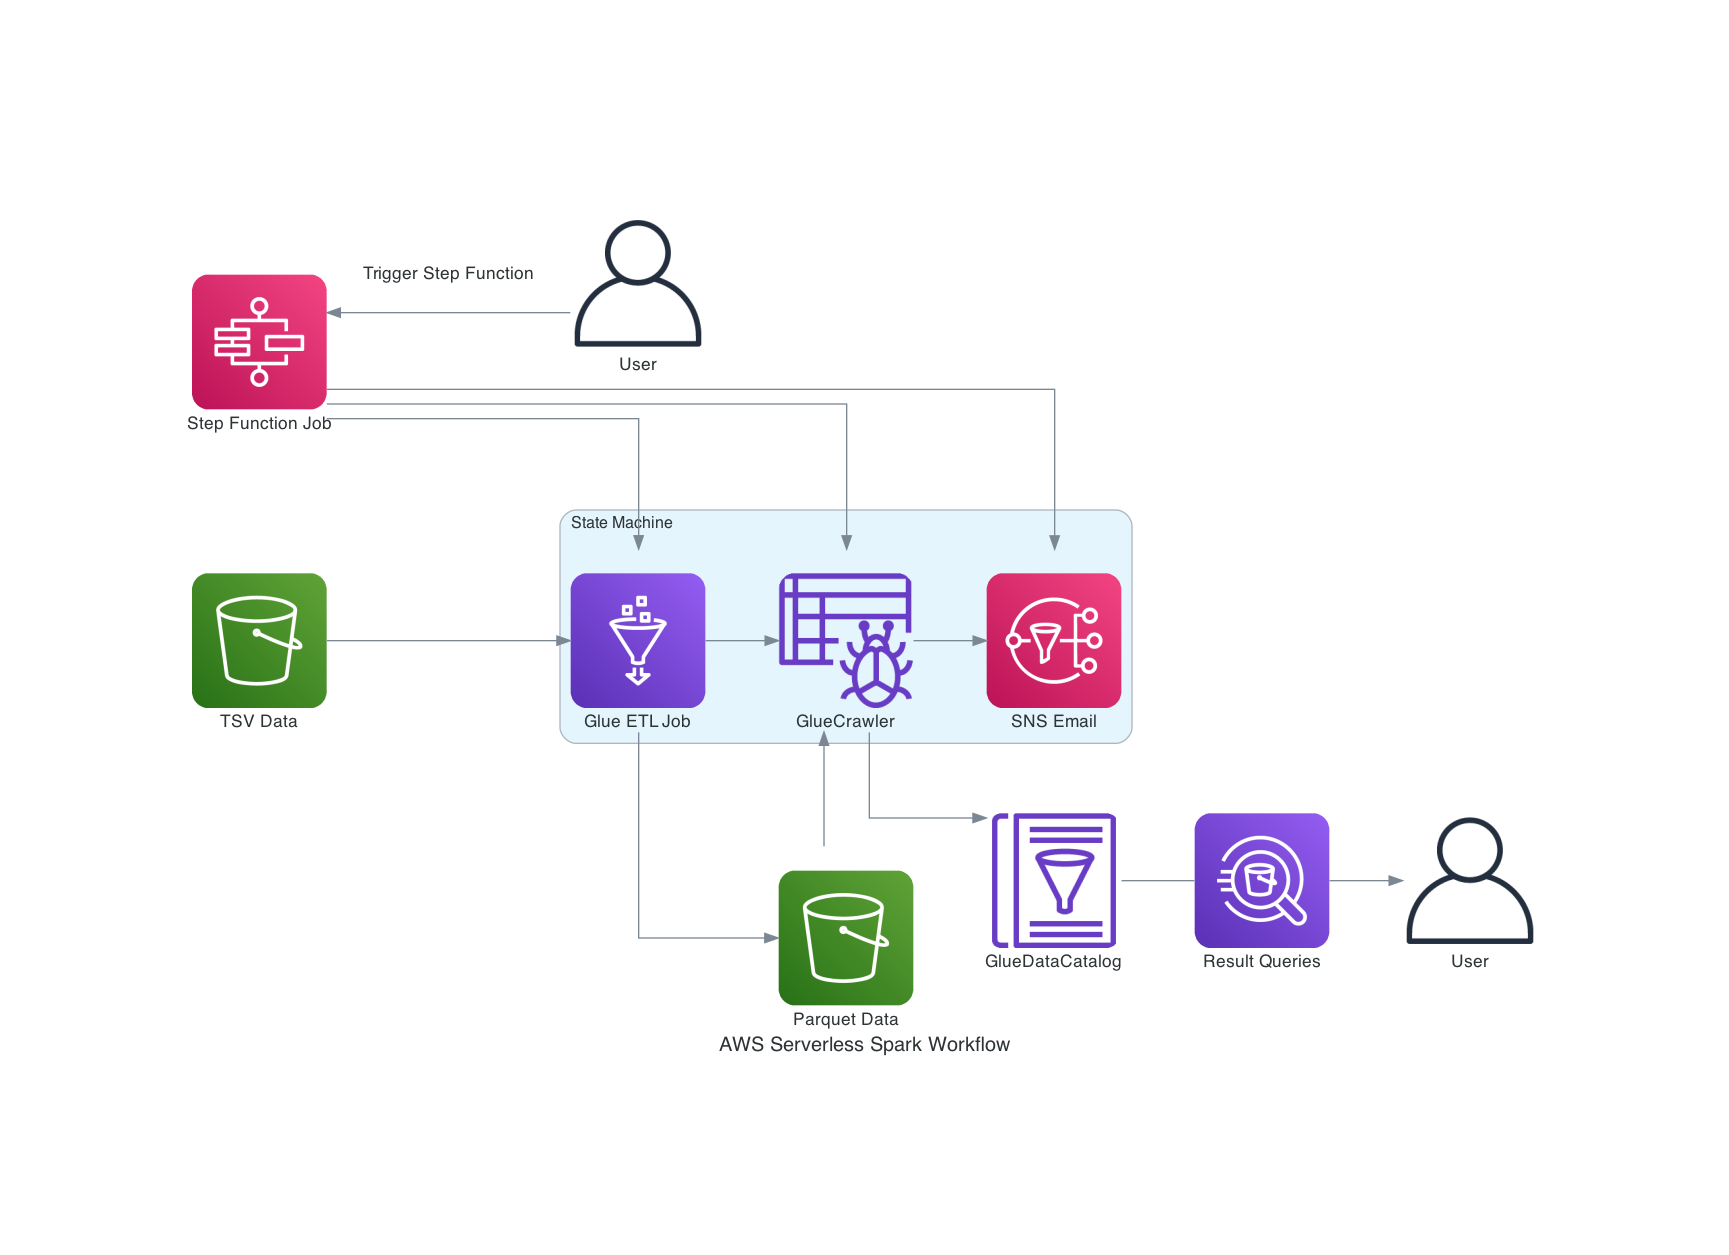
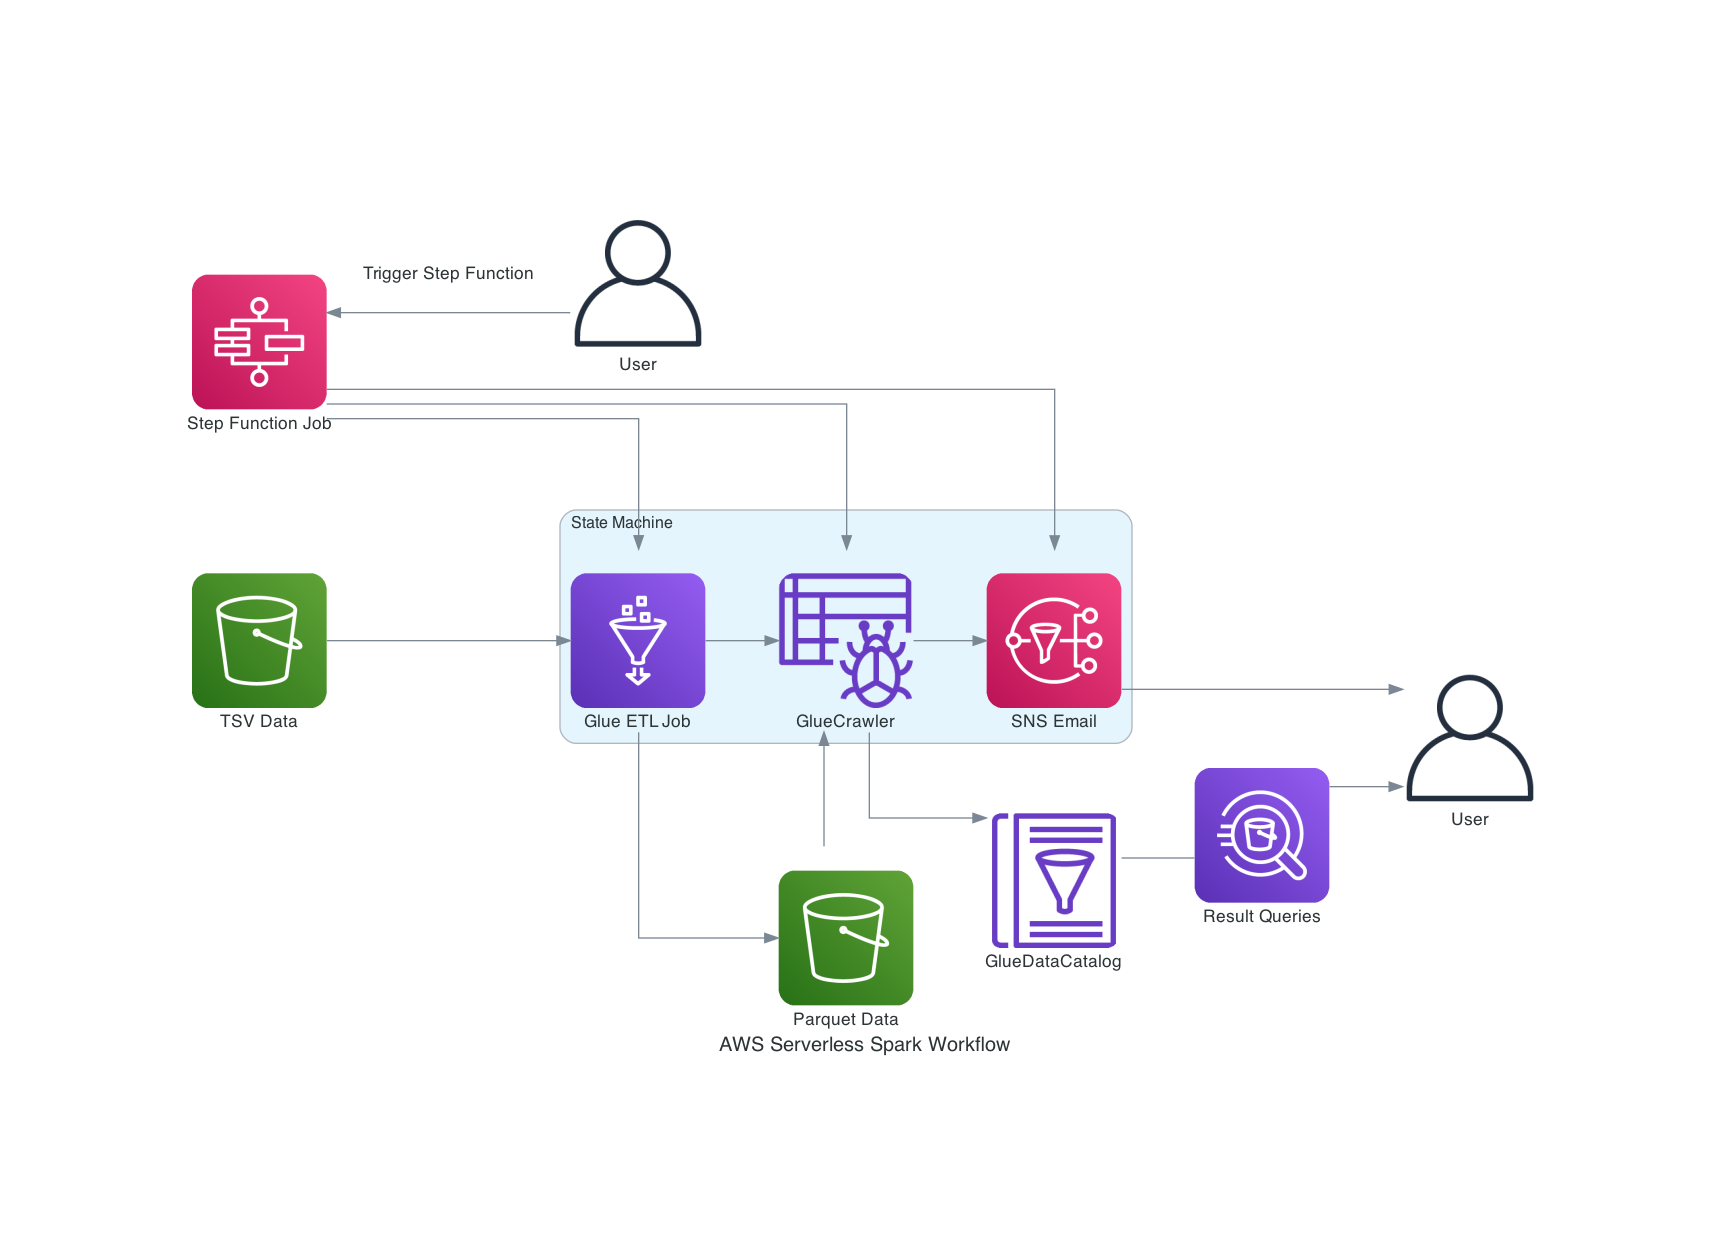
small fix architecture diagram

Changed region(s): [[0.6871, 0.5904, 0.7808, 0.7769], [0.812, 0.5283, 0.9057, 0.7769], [0.8745, 0.7147, 0.9057, 0.7458]]

diff --git a/src/task3/aws/architecture,py.py b/src/task3/aws/architecture,py.py
@@ -21,6 +21,6 @@ with Diagram("AWS Serverless Spark Workflow", show=True, direction="LR"):
     StepFunction >> Crawler
     StepFunction >> SNS_Email
     S31 >> Glue_Job >> S32 >> Crawler
-    Glue_Job >> Crawler >> SNS_Email >> User
+    Glue_Job >> Crawler >> SNS_Email >> User2
     Crawler >> Data_Catalog
     Data_Catalog - Athena >> User2
